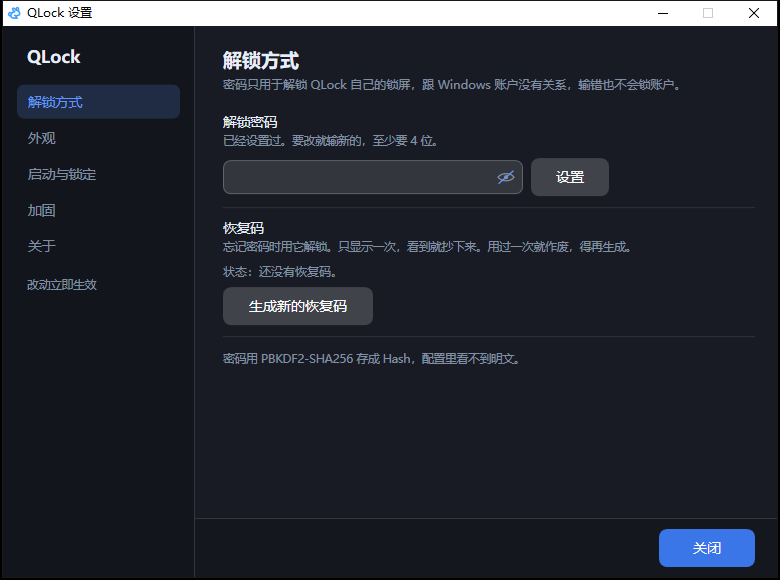
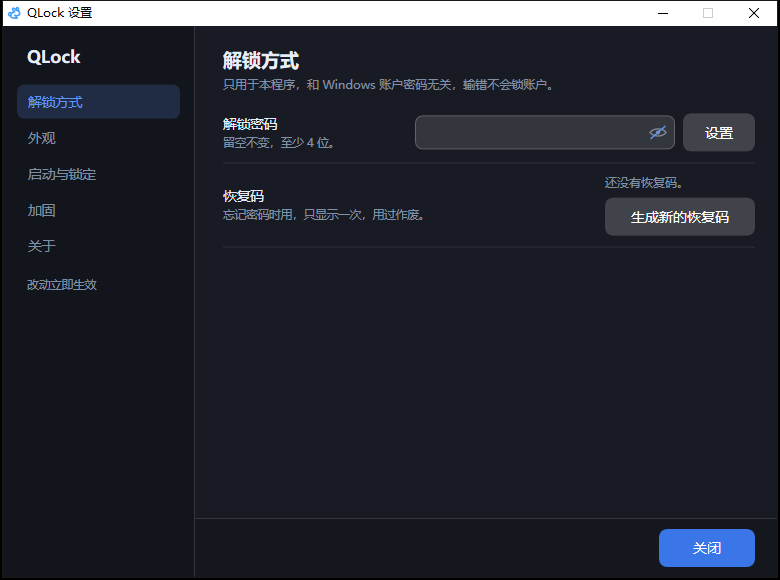
设置窗的开关改成滑块，说明文字收紧

Changed region(s): [[0.2769, 0.1862, 0.9846, 0.5586], [0.2769, 0.5897, 0.6462, 0.6517], [0.2769, 0.1241, 0.8615, 0.1552]]

diff --git a/src/SettingsWindow.cs b/src/SettingsWindow.cs
@@ -209,7 +209,7 @@ namespace QLock
                 kv.Value.Background = on ? Ui.Fg(46, 96, 150, 250) : Brushes.Transparent;
                 kv.Value.Foreground = on ? Ui.Accent : Ui.TextSecondary;
             }
-            if (id == "unlock") { headerTitle.Text = "解锁方式"; headerDesc.Text = "密码只用于解锁 QLock 自己的锁屏，跟 Windows 账户没有关系，输错也不会锁账户。"; }
+            if (id == "unlock") { headerTitle.Text = "解锁方式"; headerDesc.Text = "只用于本程序，和 Windows 账户密码无关，输错不会锁账户。"; }
             else if (id == "look") { headerTitle.Text = "外观"; headerDesc.Text = "锁屏长什么样。改完下一次锁屏就换过去。"; }
             else if (id == "start") { headerTitle.Text = "启动与锁定"; headerDesc.Text = "什么时候锁屏、开机要不要自动启动。"; }
             else if (id == "hard") { headerTitle.Text = "加固"; headerDesc.Text = "锁屏时挡掉常见的系统热键。这不是安全边界。"; }
@@ -224,7 +224,7 @@ namespace QLock
             Grid g = new Grid();
             g.ColumnDefinitions.Add(new ColumnDefinition());
             g.ColumnDefinitions.Add(new ColumnDefinition());
-            g.ColumnDefinitions[1].Width = new GridLength(190);
+            g.ColumnDefinitions[1].Width = GridLength.Auto;
 
             StackPanel texts = new StackPanel();
             texts.VerticalAlignment = VerticalAlignment.Center;
@@ -286,7 +286,7 @@ namespace QLock
 
         CheckBox Toggle(bool value)
         {
-            CheckBox cb = Ui.Check(value, "", 0);
+            CheckBox cb = Ui.Switch(value);
             cb.HorizontalAlignment = HorizontalAlignment.Right;
             return cb;
         }
@@ -303,8 +303,9 @@ namespace QLock
         {
             StackPanel pane = new StackPanel();
 
+            // 密码只存 PBKDF2-SHA256（12 万次迭代）的 Hash 和 Salt，配置文件里没有明文。
             Grid holder = new Grid();
-            holder.Width = 300;
+            holder.Width = 260;
             holder.HorizontalAlignment = HorizontalAlignment.Left;
 
             pwd1 = new PasswordBox();
@@ -327,17 +328,17 @@ namespace QLock
             pwdRow.Children.Add(holder);
 
             Button apply = Ui.Button("设置", false);
-            apply.Width = 78;
+            apply.Width = 72;
             apply.Margin = new Thickness(8, 0, 0, 0);
             apply.Click += delegate { ApplyPassword(); };
             pwdRow.Children.Add(apply);
 
-            pane.Children.Add(Block("解锁密码", cfg.HasPassword
-                ? "已经设置过。要改就输新的，至少要 4 位。"
-                : "还没有设。先设一个至少 4 位的密码。", pwdRow));
+            pane.Children.Add(Row("解锁密码", cfg.HasPassword
+                ? "留空不变，至少 4 位。"
+                : "还没设，至少 4 位。", pwdRow));
 
-            recStatus = Ui.Text(!string.IsNullOrEmpty(cfg.RecoveryHash) ? "状态：已设置恢复码。" : "状态：还没有恢复码。",
-                12, !string.IsNullOrEmpty(cfg.RecoveryHash) ? Ui.TextSecondary : Ui.TextSecondary, FontWeights.Normal);
+            recStatus = Ui.Text(!string.IsNullOrEmpty(cfg.RecoveryHash) ? "已设置恢复码。" : "还没有恢复码。",
+                12, Ui.TextSecondary, FontWeights.Normal);
 
             recOut = new TextBox();
             recOut.IsReadOnly = true;
@@ -357,12 +358,7 @@ namespace QLock
             recStack.Children.Add(genRec);
             recStack.Children.Add(recOut);
 
-            pane.Children.Add(Block("恢复码", "忘记密码时用它解锁。只显示一次，看到就抄下来。用过一次就作废，得再生成。", recStack));
-
-            TextBlock foot = Ui.Text("密码用 PBKDF2-SHA256 存成 Hash，配置里看不到明文。", 11.5, Ui.TextSecondary, FontWeights.Normal);
-            foot.TextWrapping = TextWrapping.Wrap;
-            foot.Margin = new Thickness(0, 14, 0, 0);
-            pane.Children.Add(foot);
+            pane.Children.Add(Row("恢复码", "忘记密码时用，只显示一次，用过作废。", recStack));
             return pane;
         }
 
@@ -386,7 +382,7 @@ namespace QLock
             Auth.SetRecovery(cfg, code);
             recOut.Text = code;
             recOut.Visibility = Visibility.Visible;
-            recStatus.Text = "状态：新恢复码已生成，也复制到剪贴板了。";
+            recStatus.Text = "新恢复码已生成，也复制到剪贴板了。";
             recStatus.Foreground = Ui.Good;
             try { Clipboard.SetText(code); } catch { }
             SaveNow("恢复码已更新");
@@ -542,7 +538,7 @@ namespace QLock
             Bind(elevated, delegate(bool on) { cfg.RunElevated = on; }, "已保存，下次启动生效");
             pane.Children.Add(Row("以管理员身份启动", "每次启动弹一次 UAC。取消授权就以普通权限继续跑。", elevated));
 
-            TextBlock note = Ui.Text("这三项一起开的话，登录后会先等 UAC 确认，那几秒桌面是露着的。建议关掉「以管理员身份启动」，需要时自己右键运行。",
+            TextBlock note = Ui.Text("三项一起开，登录后会先等 UAC 确认，那几秒桌面是露着的。建议关掉「以管理员身份启动」。",
                 11.5, Ui.TextSecondary, FontWeights.Normal);
             note.TextWrapping = TextWrapping.Wrap;
             note.Margin = new Thickness(0, 12, 0, 0);
@@ -583,17 +579,11 @@ namespace QLock
             Bind(block, delegate(bool on) { cfg.BlockSystemHotkeys = on; }, "已保存");
             pane.Children.Add(Row("锁定时拦截系统热键", "Win、Alt+Tab、Alt+Esc、Alt+F4、Ctrl+Esc、Ctrl+Shift+Esc 都会被吞掉。", block));
 
-            TextBlock t1 = Ui.Text("锁屏时任务管理器打不开——它会被压到锁屏窗口下面。Ctrl+Alt+Del 安全界面里的「任务管理器」也是同样的结果，「运行新任务」里执行 taskkill 才能真正结束本程序。",
+            TextBlock t1 = Ui.Text("锁屏时任务管理器会被压在下面，Ctrl+Alt+Del 里的也一样。要让它真结束不了，去「启动与锁定」勾上「以管理员身份启动」。",
                 11.5, Ui.TextSecondary, FontWeights.Normal);
             t1.TextWrapping = TextWrapping.Wrap;
             t1.Margin = new Thickness(0, 14, 0, 0);
             pane.Children.Add(t1);
-
-            TextBlock t2 = Ui.Text("想让人没法用任务管理器结束它，勾上「以管理员身份启动」——那样普通权限的任务管理器会提示拒绝访问。",
-                11.5, Ui.TextSecondary, FontWeights.Normal);
-            t2.TextWrapping = TextWrapping.Wrap;
-            t2.Margin = new Thickness(0, 8, 0, 0);
-            pane.Children.Add(t2);
 
             return pane;
         }

diff --git a/src/Ui.cs b/src/Ui.cs
@@ -236,6 +236,58 @@ namespace QLock
             return cb;
         }
 
+        // 开关滑块：保留 CheckBox 的语义（UIA 里仍是勾选控件、空格能切换），只换外观。
+        public static CheckBox Switch(bool value)
+        {
+            CheckBox cb = new CheckBox();
+            cb.IsChecked = value;
+            cb.Cursor = Cursors.Hand;
+            cb.Foreground = Brushes.White;
+            cb.Background = Fg(50, 255, 255, 255);
+            cb.BorderBrush = Fg(40, 255, 255, 255);
+            cb.BorderThickness = new Thickness(1);
+            cb.VerticalAlignment = VerticalAlignment.Center;
+
+            ControlTemplate template = new ControlTemplate(typeof(CheckBox));
+            FrameworkElementFactory track = new FrameworkElementFactory(typeof(Border));
+            track.Name = "track";
+            track.SetValue(FrameworkElement.WidthProperty, 40.0);
+            track.SetValue(FrameworkElement.HeightProperty, 22.0);
+            track.SetValue(Border.CornerRadiusProperty, new CornerRadius(11));
+            track.SetValue(Border.BackgroundProperty, new TemplateBindingExtension(Control.BackgroundProperty));
+            track.SetValue(Border.BorderBrushProperty, new TemplateBindingExtension(Control.BorderBrushProperty));
+            track.SetValue(Border.BorderThicknessProperty, new TemplateBindingExtension(Control.BorderThicknessProperty));
+
+            FrameworkElementFactory knob = new FrameworkElementFactory(typeof(System.Windows.Shapes.Ellipse));
+            knob.Name = "knob";
+            knob.SetValue(FrameworkElement.WidthProperty, 14.0);
+            knob.SetValue(FrameworkElement.HeightProperty, 14.0);
+            knob.SetValue(FrameworkElement.HorizontalAlignmentProperty, HorizontalAlignment.Left);
+            knob.SetValue(FrameworkElement.VerticalAlignmentProperty, VerticalAlignment.Center);
+            knob.SetValue(FrameworkElement.MarginProperty, new Thickness(4, 0, 0, 0));
+            knob.SetValue(System.Windows.Shapes.Shape.FillProperty, new TemplateBindingExtension(Control.ForegroundProperty));
+            track.AppendChild(knob);
+            template.VisualTree = track;
+
+            Trigger hover = new Trigger();
+            hover.Property = UIElement.IsMouseOverProperty;
+            hover.Value = true;
+            hover.Setters.Add(new Setter(Border.BorderBrushProperty, Fg(120, 255, 255, 255), "track"));
+            template.Triggers.Add(hover);
+
+            Trigger on = new Trigger();
+            on.Property = CheckBox.IsCheckedProperty;
+            on.Value = true;
+            on.Setters.Add(new Setter(Border.BackgroundProperty, Fg(255, 58, 118, 232), "track"));
+            on.Setters.Add(new Setter(Border.BorderBrushProperty, Fg(255, 58, 118, 232), "track"));
+            on.Setters.Add(new Setter(FrameworkElement.HorizontalAlignmentProperty, HorizontalAlignment.Right, "knob"));
+            on.Setters.Add(new Setter(FrameworkElement.MarginProperty, new Thickness(0, 0, 4, 0), "knob"));
+            template.Triggers.Add(on);
+
+            cb.Template = template;
+            return cb;
+        }
+
         public static Border Card(UIElement content, double topMargin)
         {
             Border card = new Border();

diff --git a/CHANGELOG.md b/CHANGELOG.md
@@ -7,6 +7,8 @@
 - 设置窗重做成左侧导航加右侧设置项，一页放下，不再是一条长滚动
 - 设置改成即改即存，去掉了「保存」按钮，还剩密码需要单独按「设置」确认
 - 没有文字的开关、输入框补上无障碍名称，屏幕阅读器能读出它是哪一项
+- 所有单项开关改成滑块样式，滑块本身就是勾选框，键盘和屏幕阅读器照样能操作
+- 解锁方式页改成左边标题、右边控件；界面上的「密码用 PBKDF2-SHA256 存成 Hash」这类实现说明挪进代码注释
 
 ## 0.2.0（2026-11-22）
 
